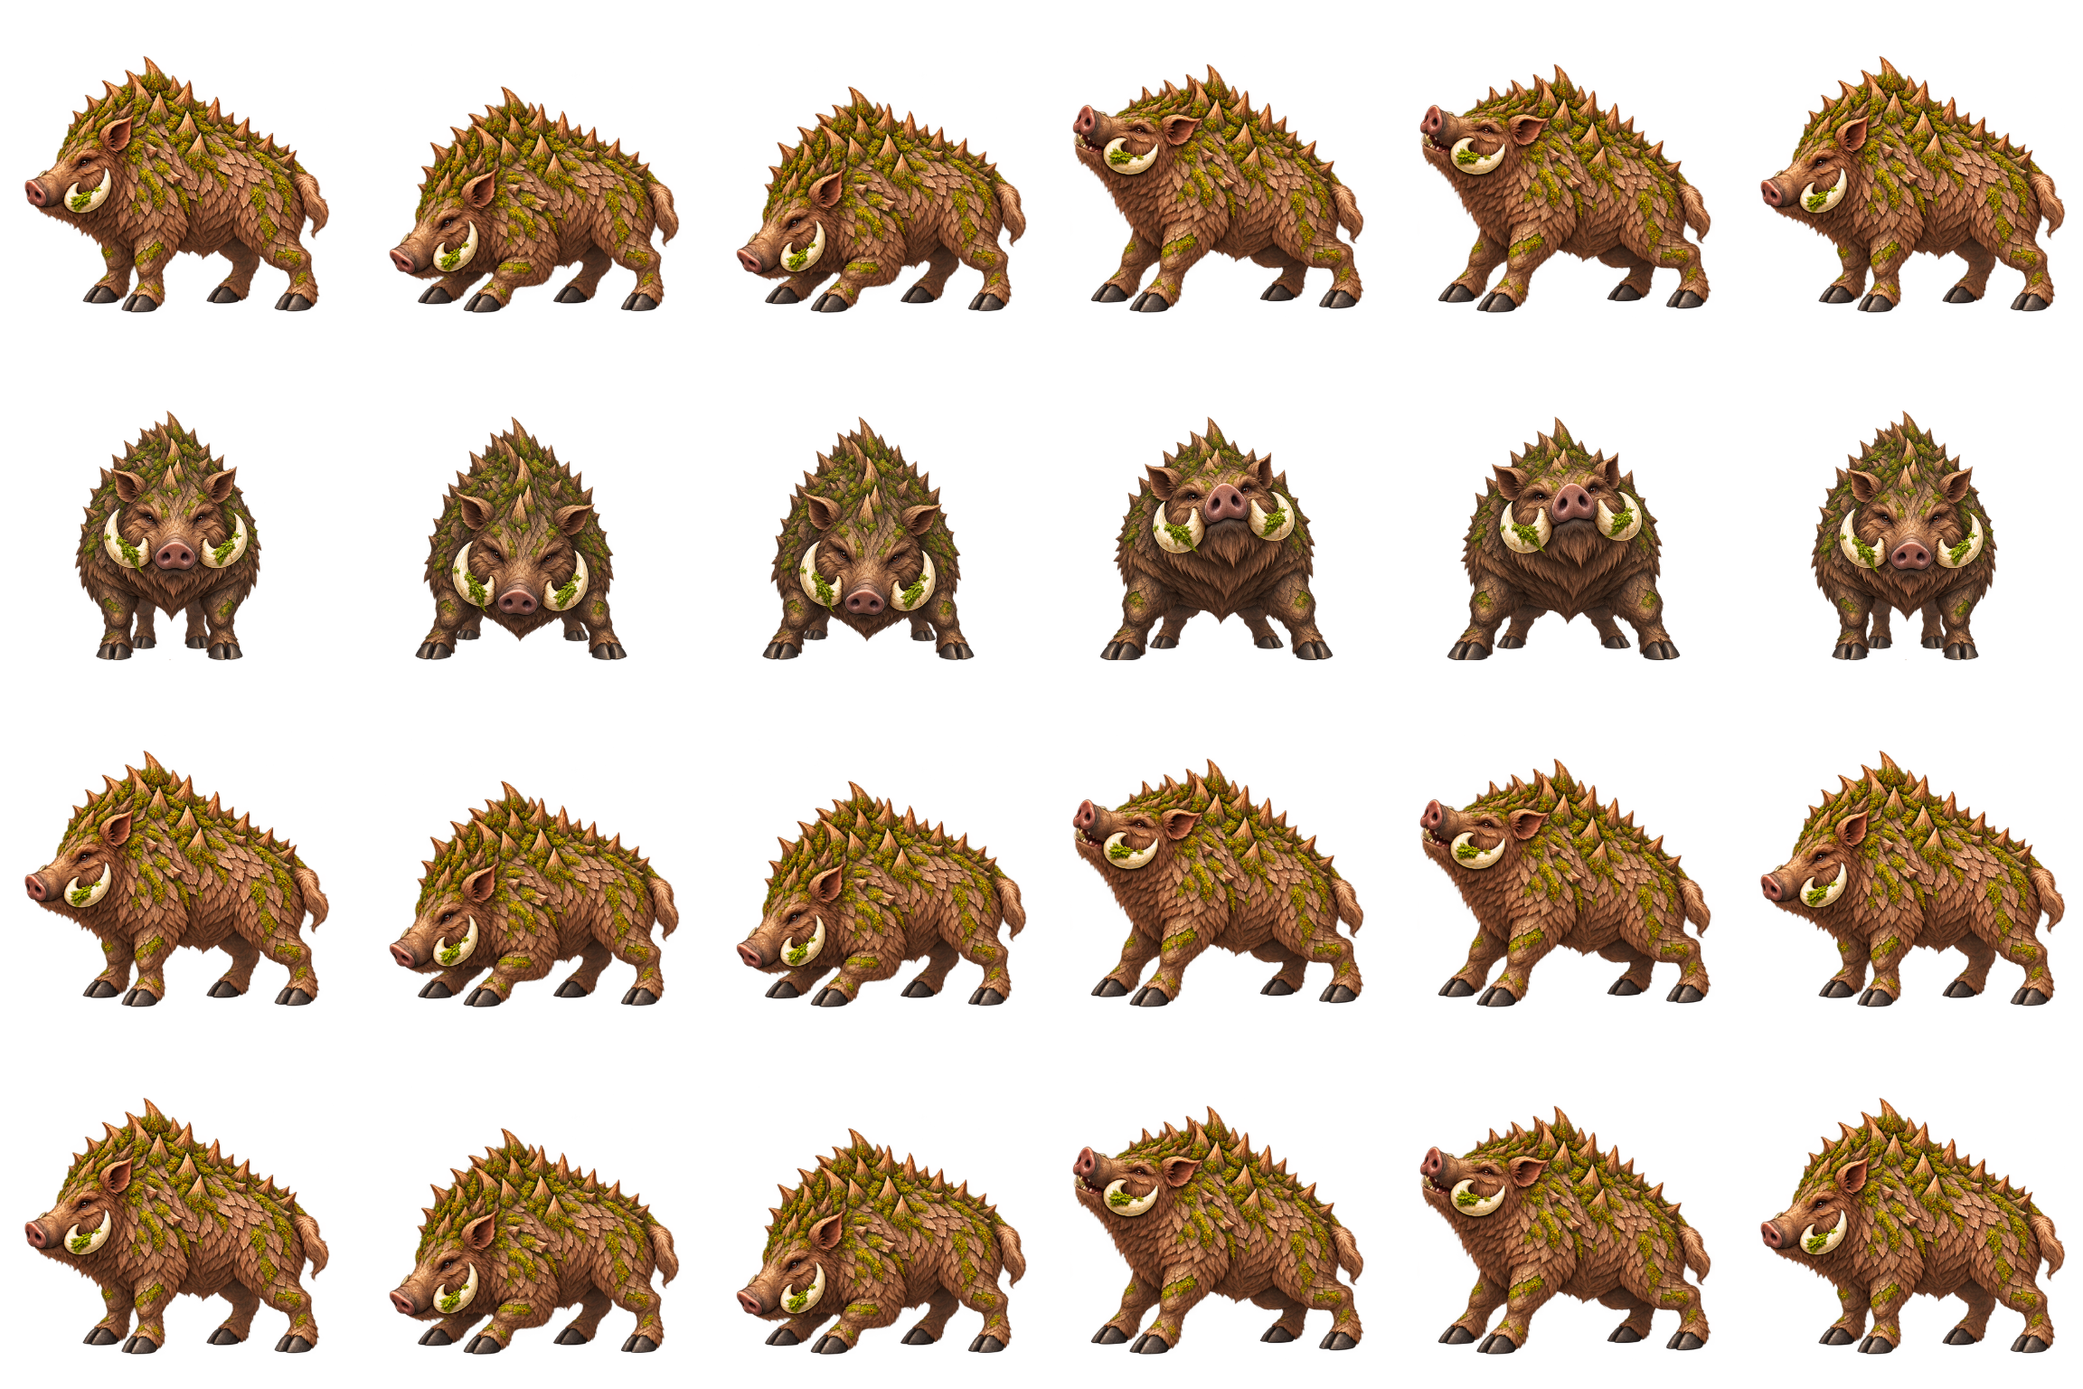
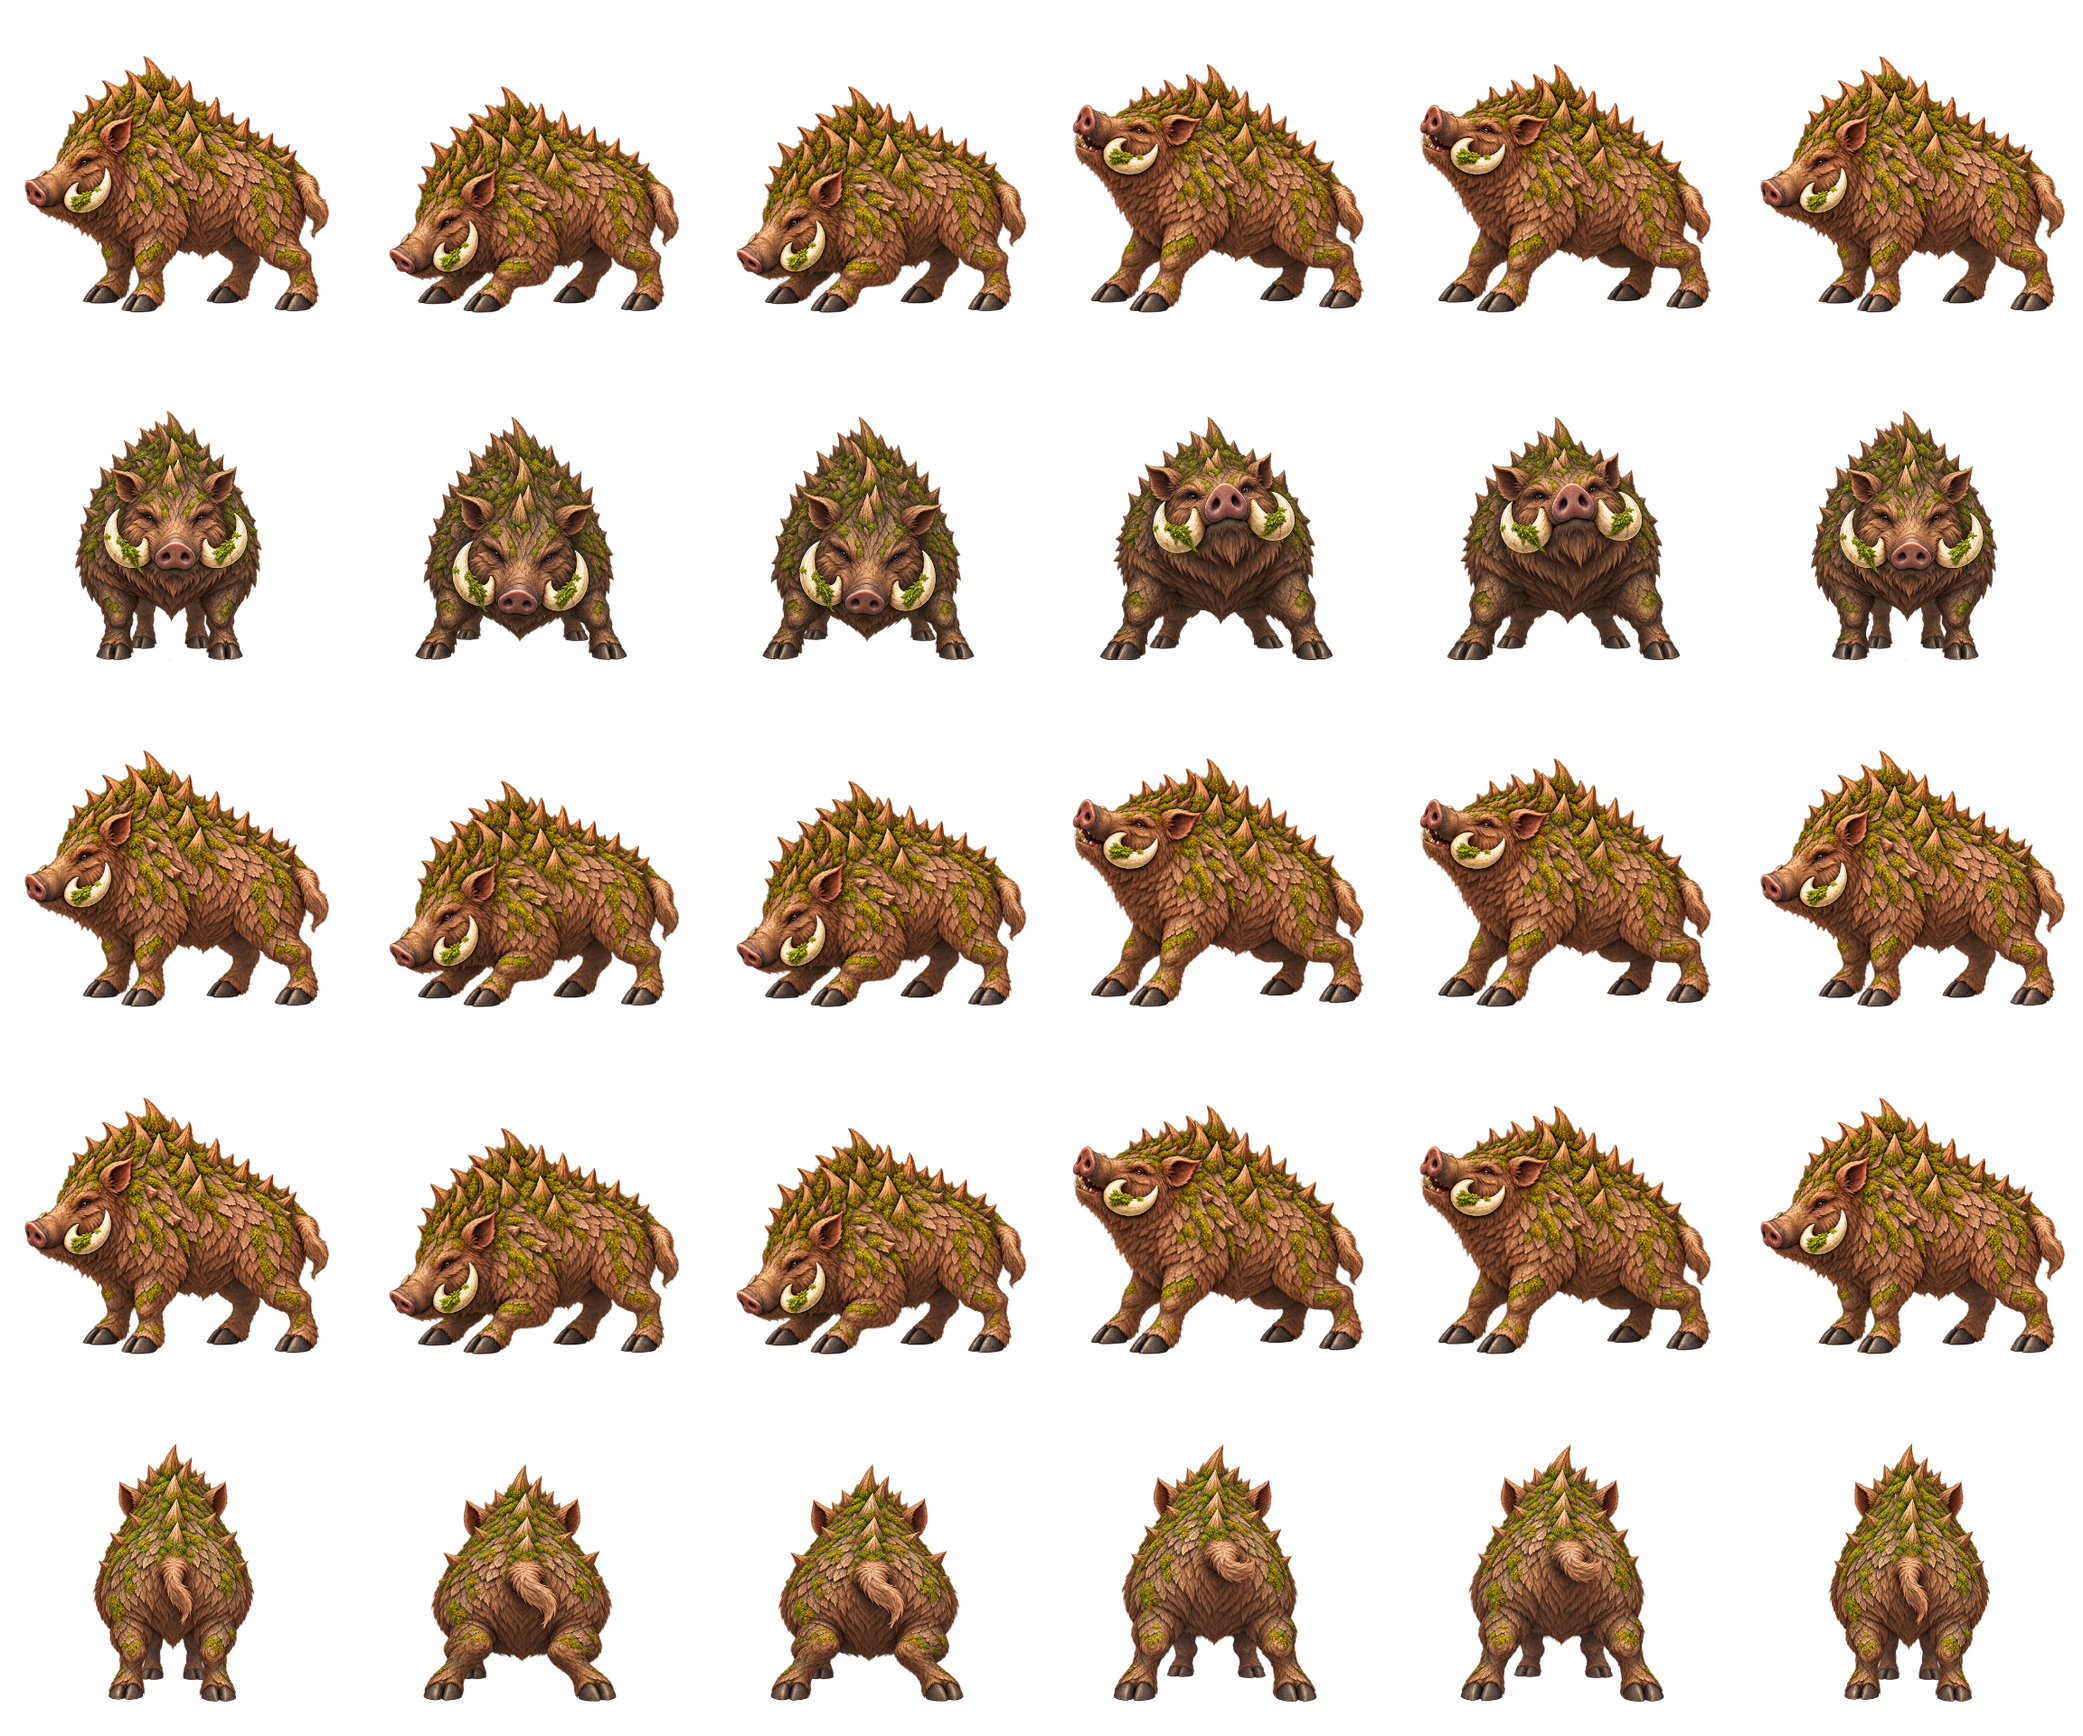
art: add Thornback rear motion drafts and runtime row

diff --git a/art-source/monsters/mob_0006/walk-review.html b/art-source/monsters/mob_0006/walk-review.html
@@ -20,12 +20,26 @@ sequences['walk-front']=[0,1,2,3,4,5];
 sequences['attack-front']=[0,1,1,2,2,0];
 sequences['hit-front']=[0,3,3,0,0,0];
 sequences['death-front']=[0,4,4,5,5,5];
+const backWalk=new Image();backWalk.src='./walk-back.png';await backWalk.decode();
+const backActions=new Image();backActions.src='./actions-back.png';await backActions.decode();
+for(const name of ['walk','attack','hit','death']){
+ sequences[`${name}-back`]=sequences[name];
+ document.querySelector('#clip').add(new Option(`${name}-back`,`${name}-back`));
+}
 let clip='walk';
 const bottoms=[475,475,475,442,442,444];
 const motion=document.querySelector('#motion'),g=motion.getContext('2d');
 const contact=document.querySelector('#contact'),cg=contact.getContext('2d');
 function draw(ctx,i,x,y,scale){
  const pose=sequences[clip][i];
+ if(clip.endsWith('-back')){
+  const walk=clip==='walk-back',sy=walk?Math.floor(pose/3)*512:pose<3?0:550;
+  const h=walk?512:pose<3?550:474;
+  const bottom=(walk?[510,509,503,503,503,503]:[534,539,538,455,452,454])[pose];
+  const anchor=(walk?[272,258,242,272,256,242]:[270,260,270,260,250,250])[pose],s=scale*.82;
+  ctx.drawImage(walk?backWalk:backActions,pose%3*512,sy,512,h,x-anchor*s,y-bottom*s,512*s,h*s);
+  return;
+ }
  if(clip.endsWith('-front')&&clip!=='walk-front'){
   const sy=[0,0,0,520,530,560][pose],h=pose<3?519:1024-sy;
   const bottom=[519,519,519,997,991,986][pose]-sy,anchor=[280,260,256,280,258,256][pose],s=scale*.82;
@@ -74,8 +88,8 @@ function tick(now){
 function exportDraft(){
  const previous=clip,images={},sizes={};
  const json={id:'thornback_2d',kind:'sheet',facingMode:'directional',
-  frame:{w:384,h:384},pivot:{x:192,y:346},pixelsPerCell:300,rows:['W','S','SW','NW'],
-  mirror:{E:'W',SE:'W',NE:'W',N:'W'},
+  frame:{w:384,h:384},pivot:{x:192,y:346},pixelsPerCell:300,rows:['W','S','SW','NW','N'],
+  mirror:{E:'W',SE:'W',NE:'W'},
   animations:{
    idle:{file:'idle.png',frames:16,fps:8,loop:true},
    walk:{file:'walk.png',frames:6,fps:8,loop:true,refMsPerCell:240},
@@ -88,8 +102,9 @@ function exportDraft(){
   const ctx=c.getContext('2d');clip=name;
   for(let row=0;row<json.rows.length;row++)for(let f=0;f<def.frames;f++){
    ctx.save();ctx.translate(f*384,row*384);
-   clip=row===1?(name==='idle'?'attack-front':`${name}-front`):name;
-   draw(ctx,row===1&&name==='idle'?0:f,192,346,.66);ctx.restore();
+   const suffix=row===1?'front':row===4?'back':null;
+   clip=suffix?(name==='idle'?`attack-${suffix}`:`${name}-${suffix}`):name;
+   draw(ctx,(row===1||row===4)&&name==='idle'?0:f,192,346,.66);ctx.restore();
   }
   images[name]=c.toDataURL('image/png');sizes[name]={width:c.width,height:c.height};
  }

diff --git a/art-source/monsters/mob_0006/game-review.html b/art-source/monsters/mob_0006/game-review.html
@@ -3,9 +3,9 @@
 <title>Thornback — game renderer review</title>
 <style>body{margin:24px;background:#202a30;color:#eee;font:16px system-ui}button,select{padding:8px;margin:6px}canvas{display:block;max-width:100%}p{max-width:900px}</style>
 <h1>Thornback — game renderer draft</h1>
-<p>Uses the game's SpriteActor and Animator with draft sheets. Not bound to gameplay. Only left-facing art; hoof contact, anatomy and directional animation remain unfinished.</p>
+<p>Uses the game's SpriteActor and Animator with draft sheets. Not bound to gameplay. Front, left and rear drafts; front/rear idle, hoof contact and animation continuity remain unfinished.</p>
 <label>Clip <select id="clip"><option>idle</option><option>walk</option><option>attack</option><option>hit</option><option>death</option></select></label>
-<label>Facing <select id="facing"><option value="-1">Left</option><option value="1">Right (mirrored)</option><option value="2">Front</option></select></label>
+<label>Facing <select id="facing"><option value="-1">Left</option><option value="1">Right (mirrored)</option><option value="2">Front</option><option value="0">Back</option></select></label>
 <button id="replay">Replay</button><button id="pause">Pause</button>
 <p id="status">Loading…</p><div id="stage"></div>
 <script type="module">

diff --git a/art-source/monsters/mob_0006/runtime-draft/README.md b/art-source/monsters/mob_0006/runtime-draft/README.md
@@ -1,9 +1,9 @@
 # Thornback runtime draft
 
-Five clips: idle blink, walk, tusk attack, hit recoil and death. The draft now includes left and front rows; western diagonals duplicate left and eastern directions mirror it. Rear remains a side alias. The160cells include duplicated rows, not160unique poses. Front idle is still a neutral stand-in.
+Five clips: idle blink, walk, tusk attack, hit recoil and death. The draft now includes left, front and rear rows; western diagonals duplicate left and eastern directions mirror it. The 200 cells include duplicated rows, not 200 unique poses. Front and rear idle are still neutral stand-ins.
 
 Regenerate with `node scripts/export-craglet-draft.mjs mob_0006` while Vite runs on port 5173. Supply `PLAYWRIGHT_MODULE` and `CHROMIUM_PATH` if needed. The shared exporter checks every cell for visible alpha and edge clipping using the real sprite schema.
 
 `../game-review.html` uses SpriteActor and Animator. Browser review confirmed the attack hit event at 375ms and death held at 1000ms without page errors. The final pose rests cheek and chest on the ground.
 
-Not bound to gameplay. Rear animation, front idle, hoof trajectories, leg angles, surface continuity and transition drawings remain unfinished. The idle blink introduces small image-detail drift. Technical validation is not art approval.
+Not bound to gameplay. Front/rear idle, hoof trajectories, leg angles, surface continuity and transition drawings remain unfinished. The idle blink introduces small image-detail drift. Technical validation is not art approval.
